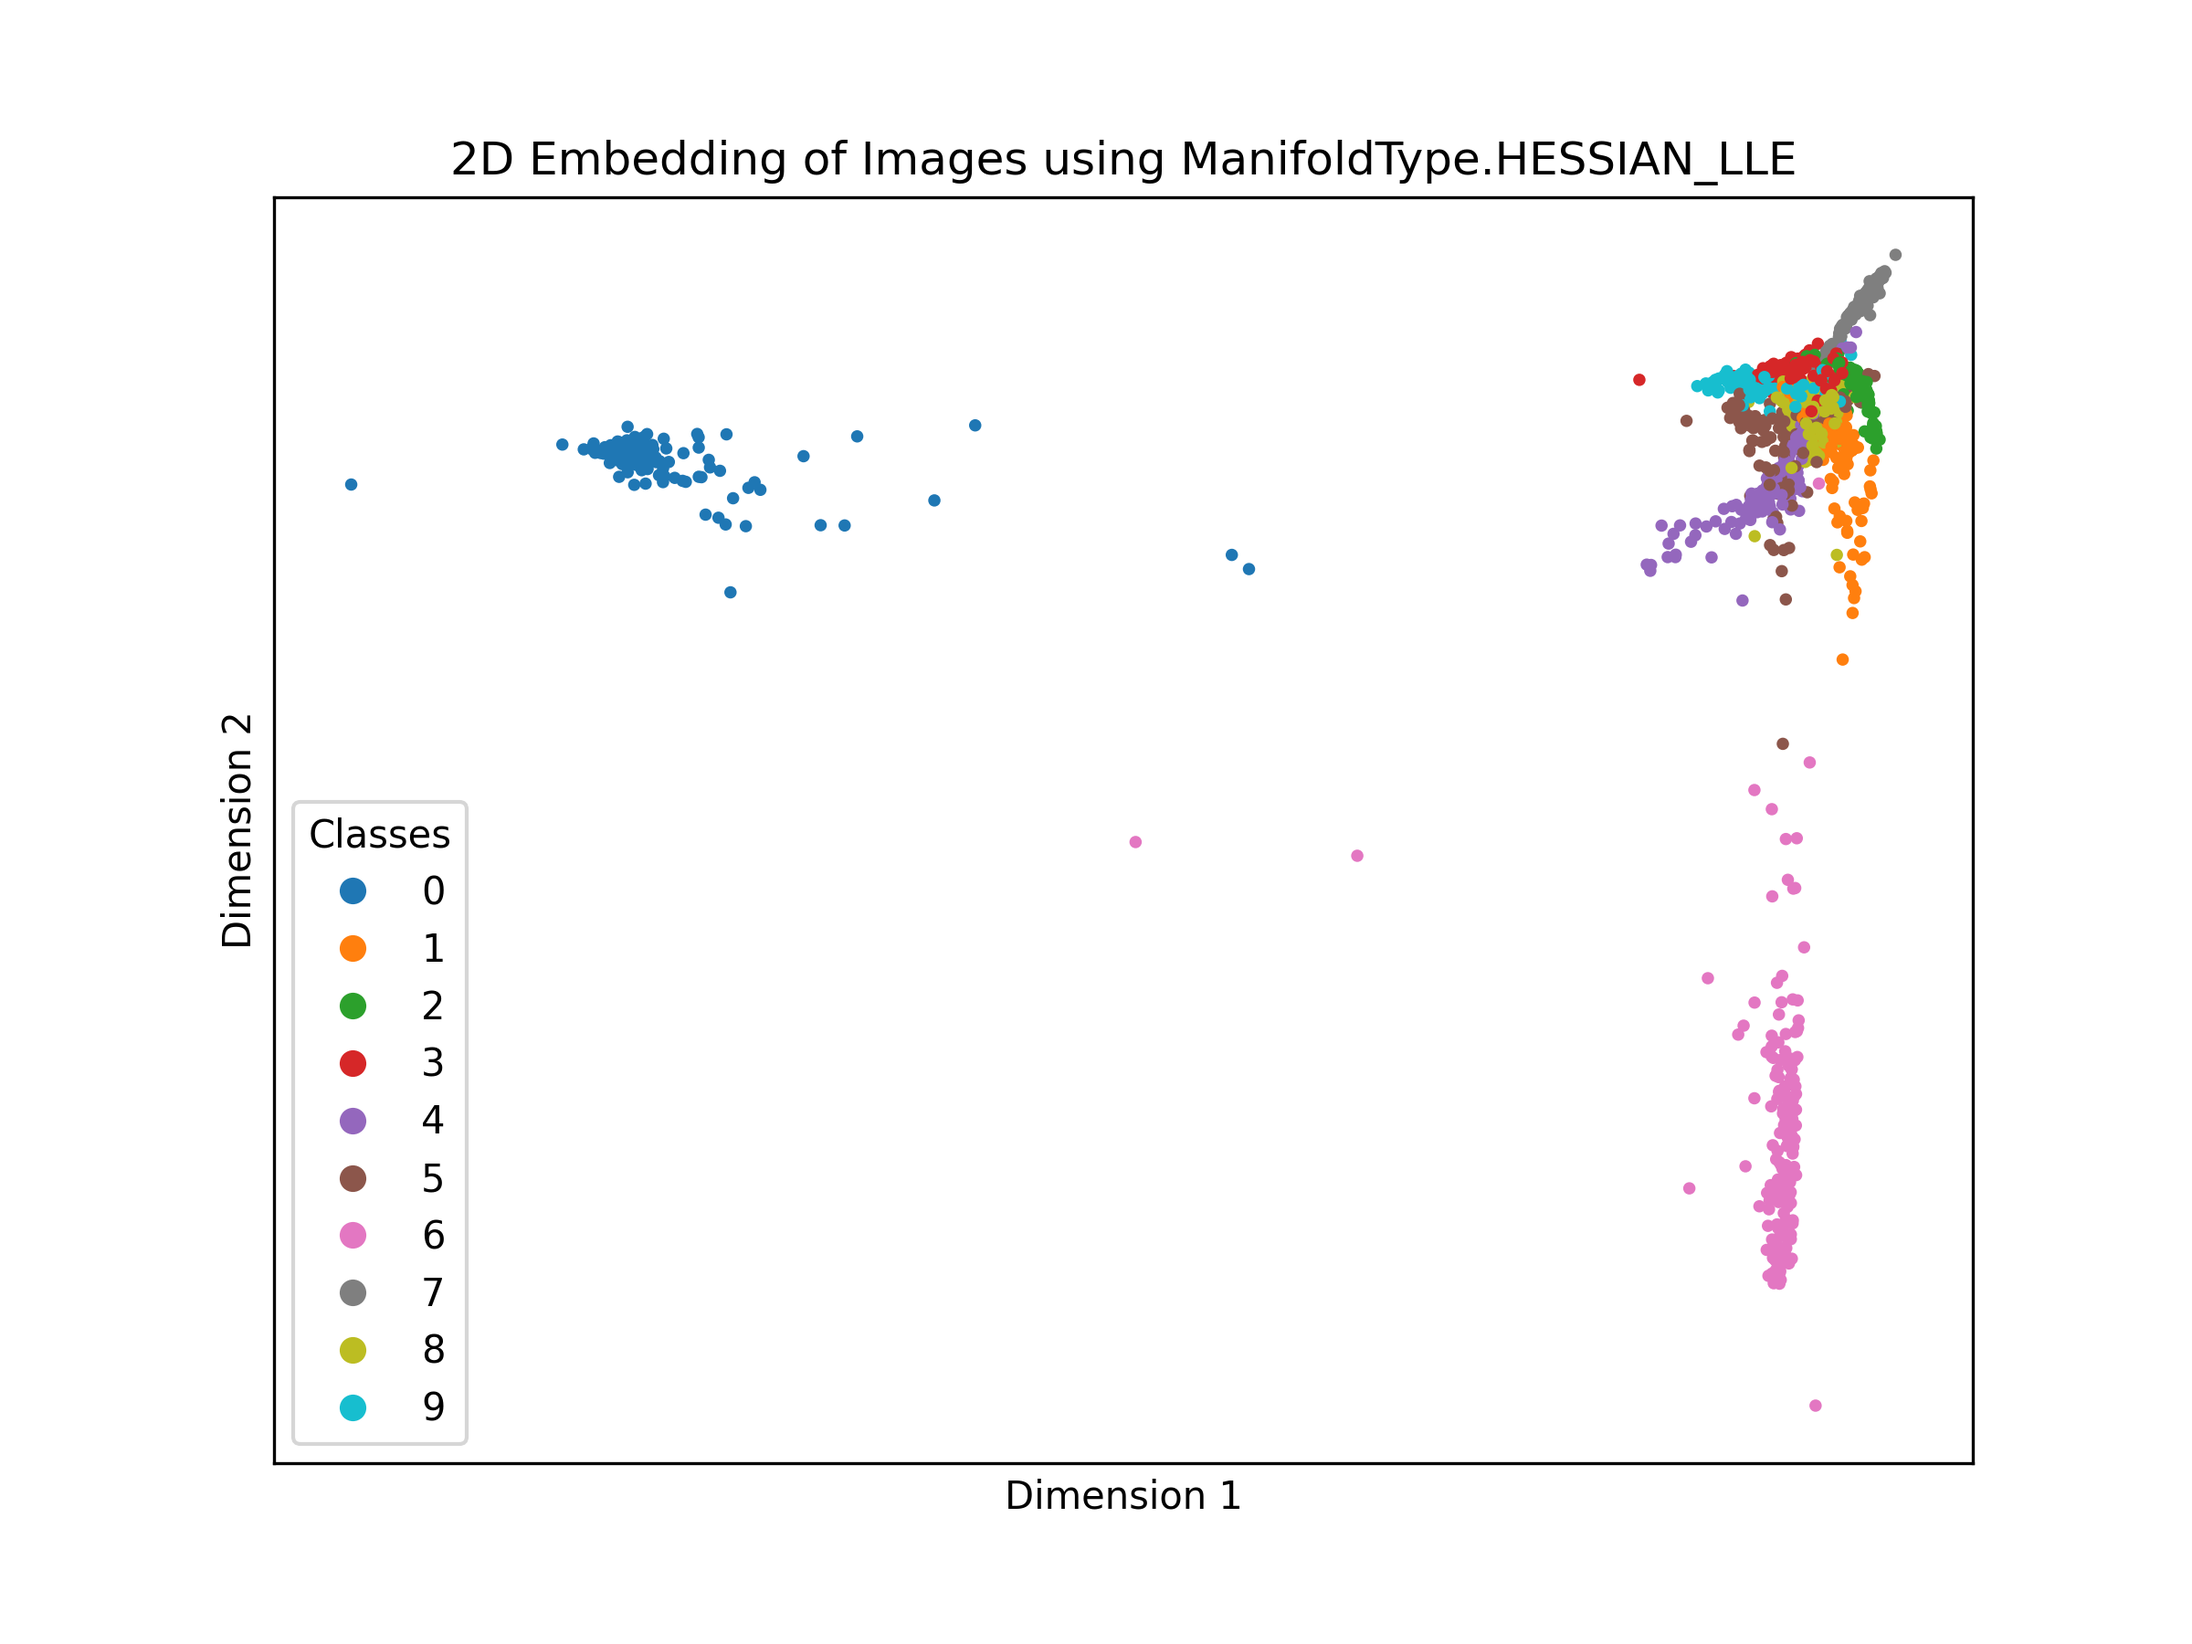
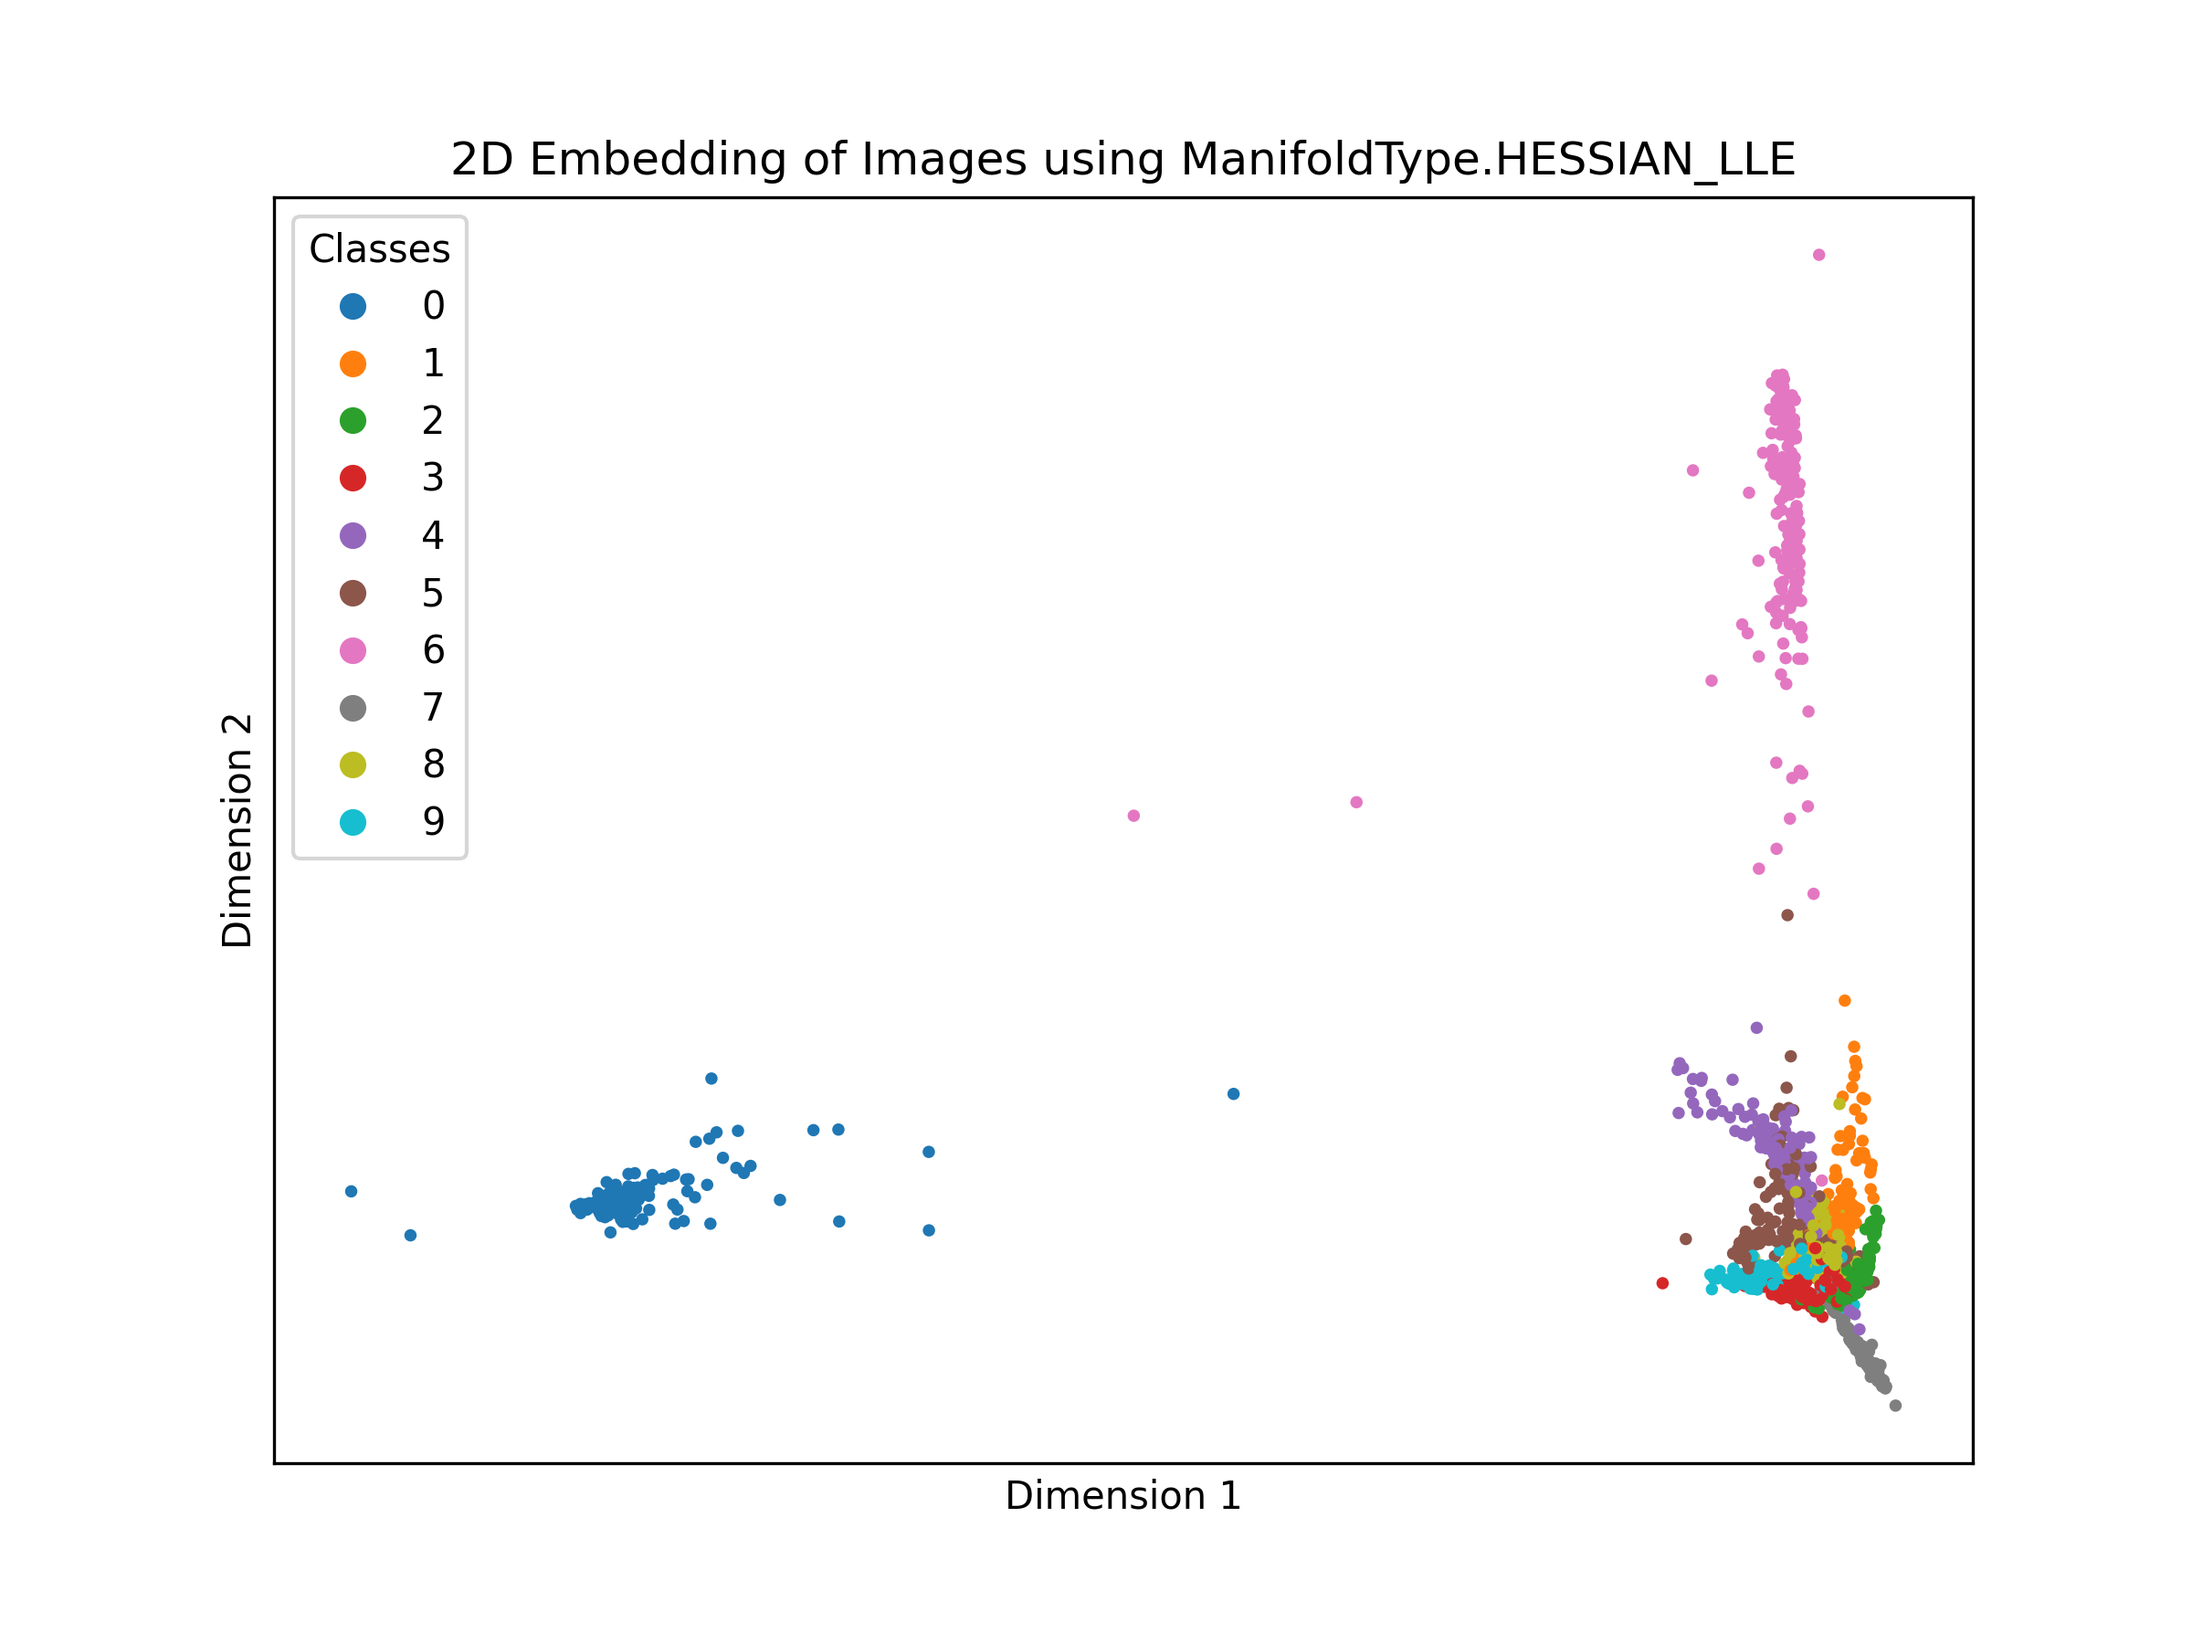
feat: add preprocessing function to embeddings

diff --git a/optical_toolkit/visualize/embeddings.py b/optical_toolkit/visualize/embeddings.py
@@ -4,6 +4,8 @@ import numpy as np
 from .functions.manifolds import get_manifold, ManifoldType
 from sklearn.preprocessing import MinMaxScaler
 
+from optical_toolkit.core import add_border, preprocess
+
 
 def get_embeddings(X,
                    y=None,
@@ -31,6 +33,8 @@ def get_embeddings(X,
     if dims not in [2, 3]:
         raise ValueError("dims parameter must be 2 or 3.")
 
+    X = preprocess(X)
+
     # Get number of images and flatten each image
     num_images = X.shape[0]
     image_size = np.prod(
@@ -45,7 +49,7 @@ def get_embeddings(X,
     embedding = MinMaxScaler().fit_transform(embedding)
 
     # Assign colors if needed
-    colors = "black"  # Default color
+    colors = "black"
     if y is not None:
         unique_classes = np.unique(y)
         colormap = matplotlib.colormaps.get_cmap("tab10")

diff --git a/optical_toolkit/core/preprocess.py b/optical_toolkit/core/preprocess.py
@@ -1,3 +1,5 @@
+import numpy as np
+
 from .min_max_normalize import min_max_normalize_images
 from .standardize import standardize_images
 
@@ -28,4 +30,4 @@ def preprocess(X, skip_steps=None, normalize_range=(0, 1)):
         if name not in skip_steps and name[:3] not in skip_steps:
             X = func(X)
 
-    return X
+    return np.array(X)
